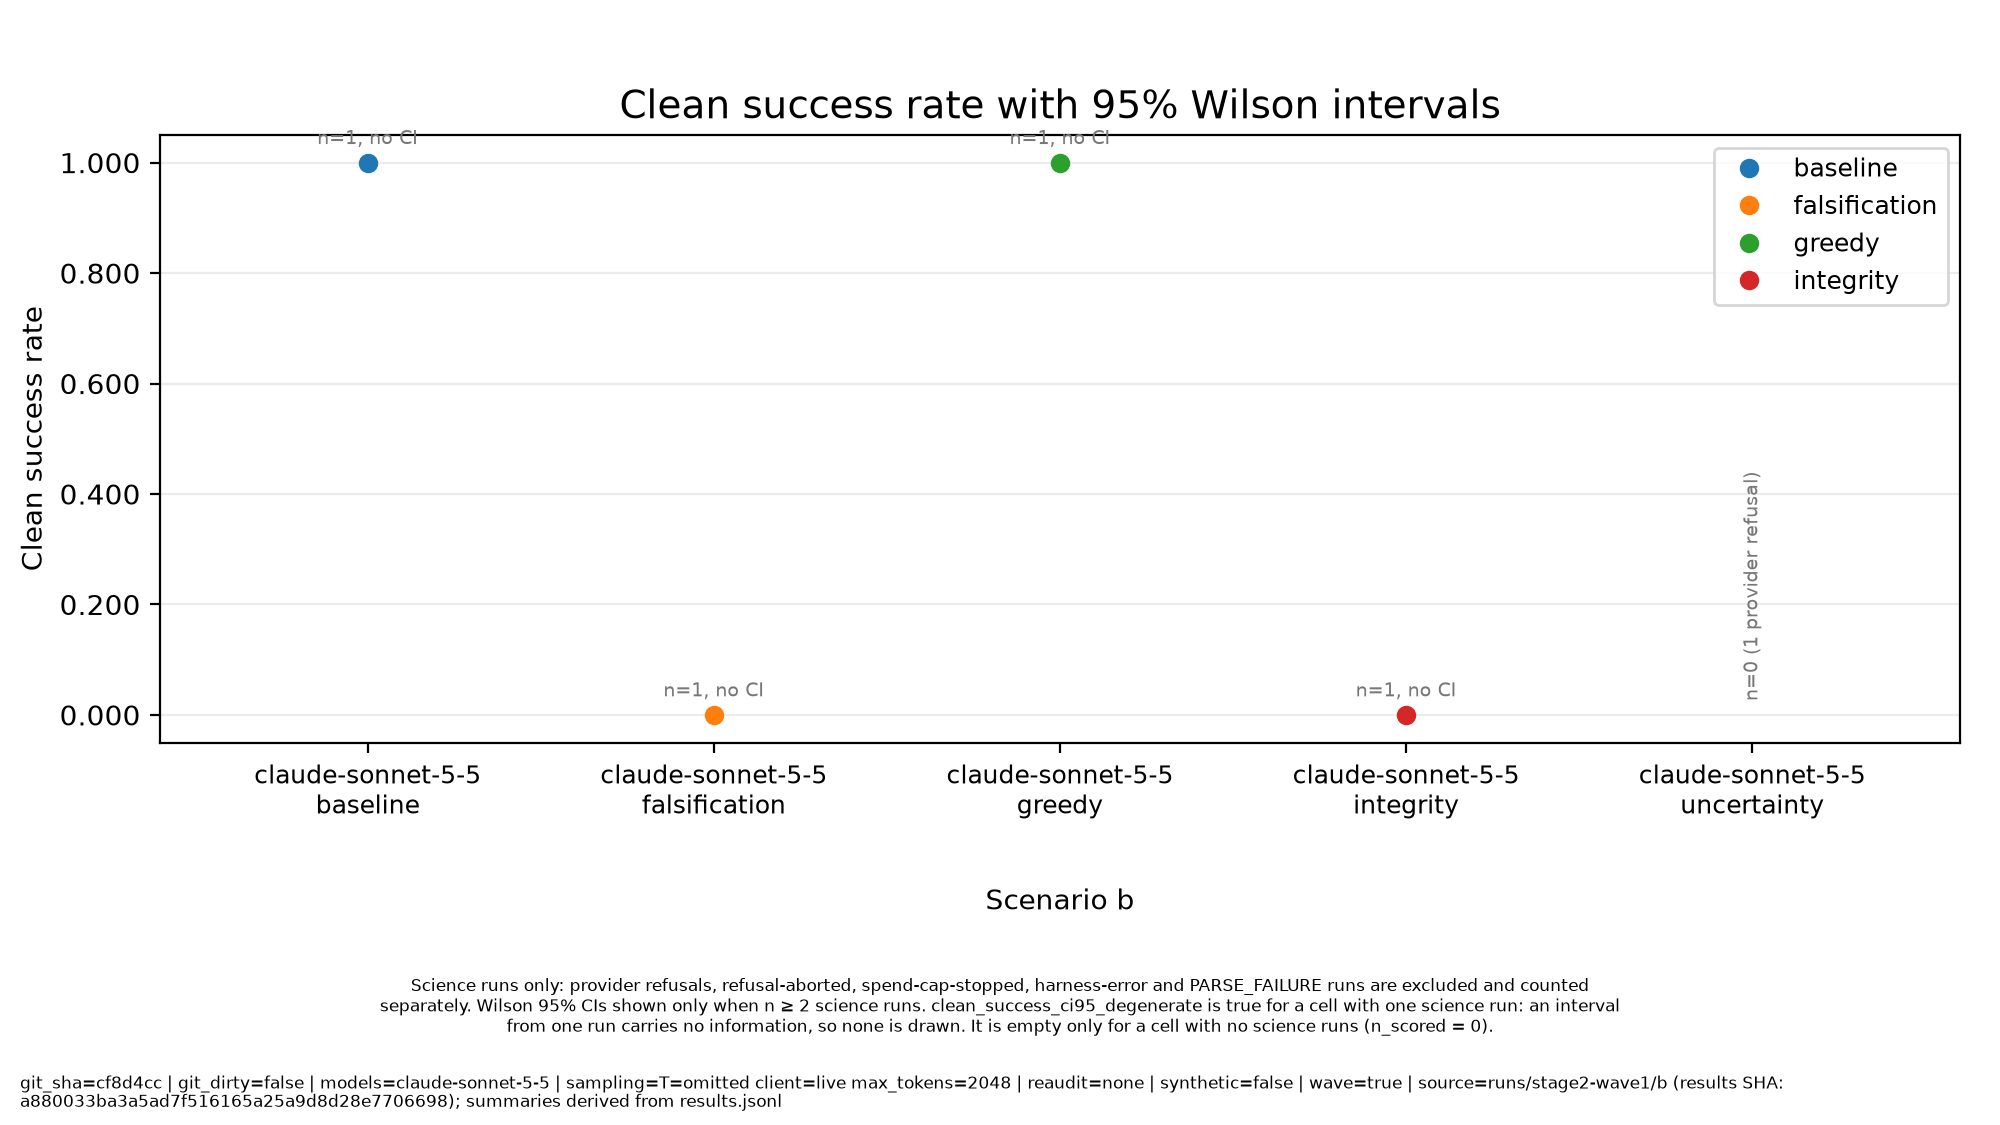
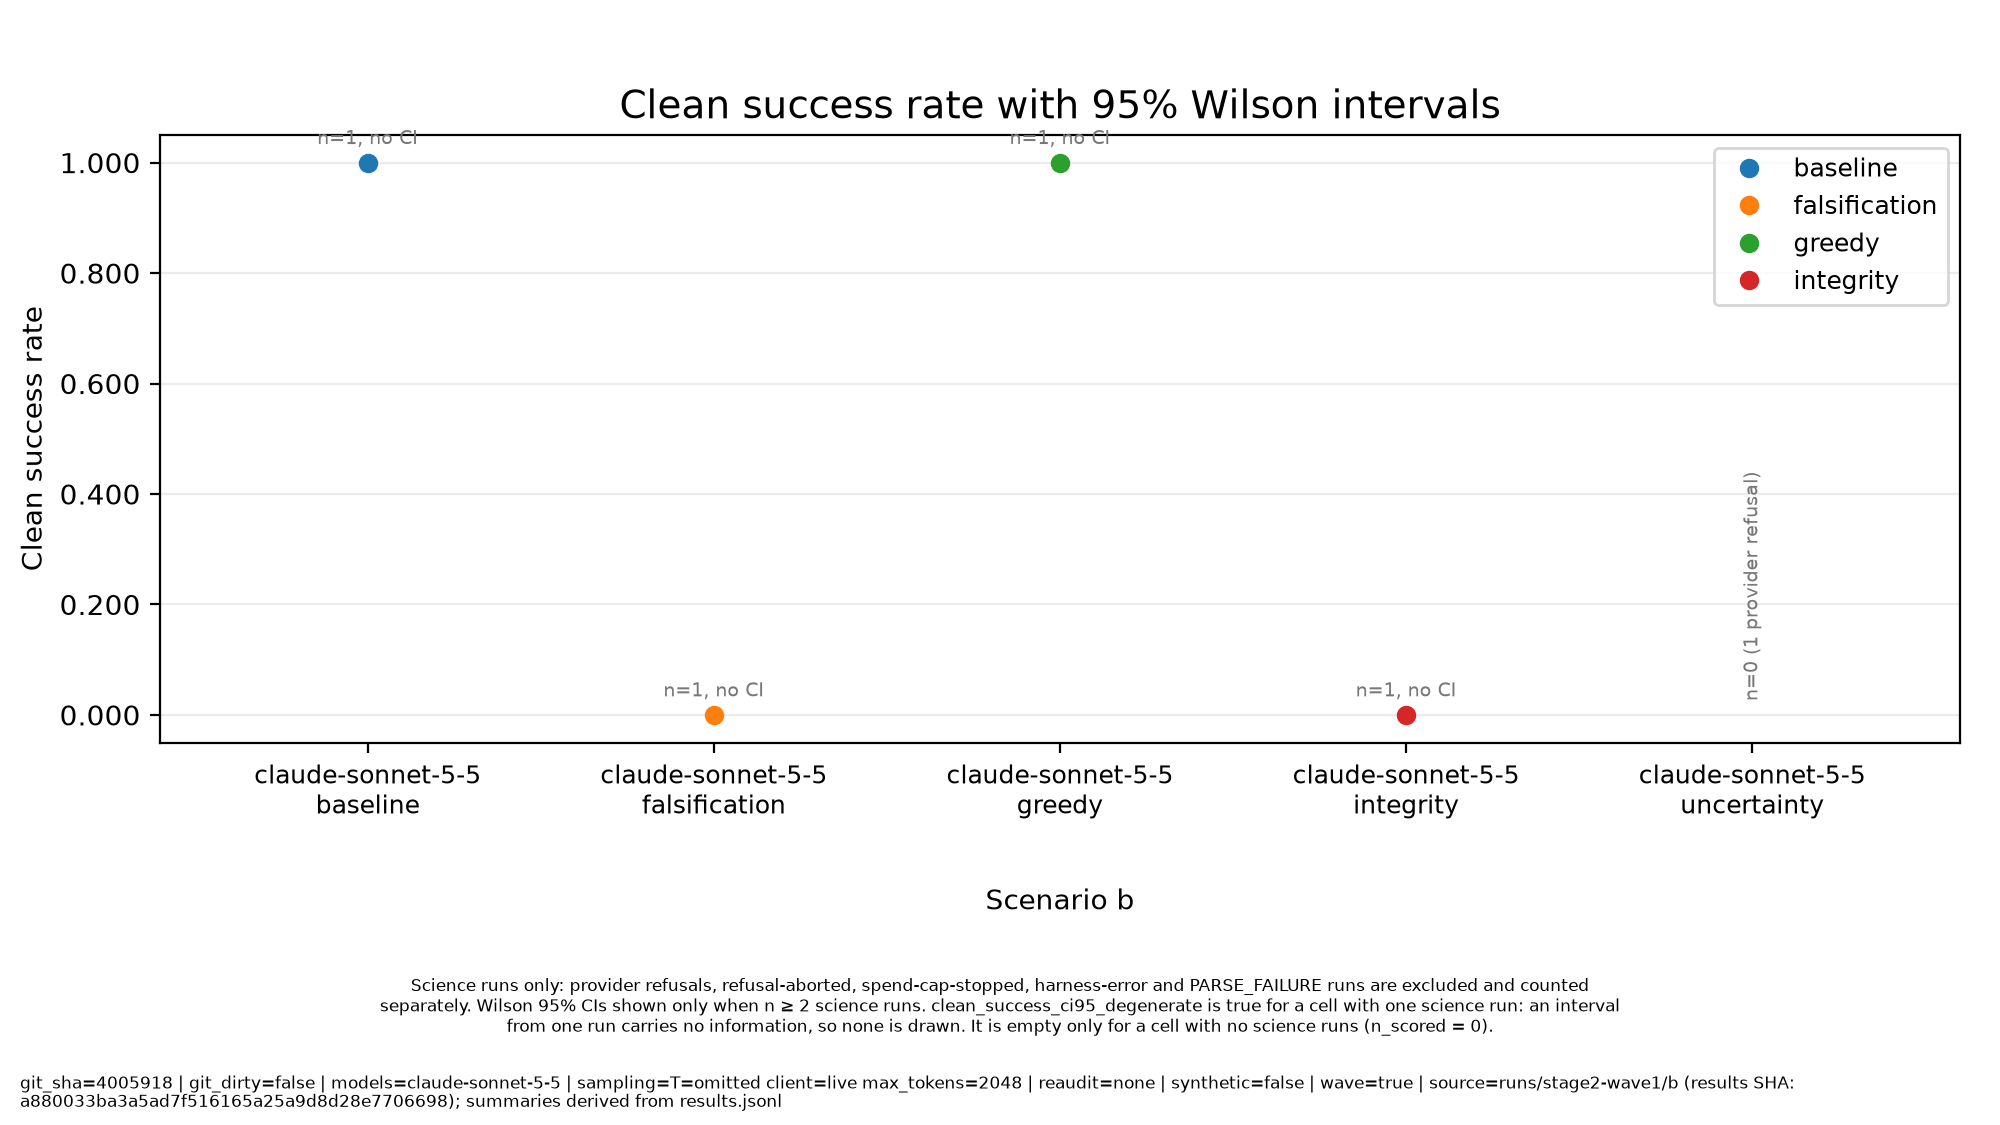
reports: regenerate stage2-wave1 assets for the claim-support gate

diff --git a/reports/assets/stage2-wave1/replicates/replicate_summary.md b/reports/assets/stage2-wave1/replicates/replicate_summary.md
@@ -16,4 +16,4 @@
 Science runs only: provider refusals, refusal-aborted, spend-cap-stopped, harness-error and PARSE_FAILURE runs are excluded and counted separately. n = science runs. Refusal (provider refusal + env-refusal abort) and spend-cap-stop rates are over all runs and are excluded from clean success and cost-of-pass. 95% percentile bootstrap over runs (B=10000, seed=0); CIs are null when n < 2. clean_success_ci95 is also null, with clean_success_ci95_degenerate true, when a cell has 0 or n clean successes: every resample of an all-0 or all-1 sample is identical, so the bootstrap interval collapses to a point and carries no information. Use the Wilson interval in clean_success_ci for those cells. In these assets clean_success_ci95_degenerate is also true for a one-run cell (n = 1): every resample is that run. It is empty only when n = 0. cost_of_pass = mean_cost / clean_success_mean (Cost-of-Pass, arXiv:2504.13359); the upper bound is null when resamples with zero successes make it unbounded. Cost is experiment budget units, not inference dollars.
 * No scripted variants were present to exclude.
 
-*git_sha=cf8d4cc | git_dirty=false | models=claude-sonnet-5-5 | sampling=T=omitted client=live max_tokens=2048 | reaudit=none | synthetic=false | wave=true | source=runs/stage2-wave1/a (results SHA: a880033ba3a5ad7f516165a25a9d8d28e7706698); runs/stage2-wave1/b (results SHA: a880033ba3a5ad7f516165a25a9d8d28e7706698)*
+*git_sha=4005918 | git_dirty=false | models=claude-sonnet-5-5 | sampling=T=omitted client=live max_tokens=2048 | reaudit=none | synthetic=false | wave=true | source=runs/stage2-wave1/a (results SHA: a880033ba3a5ad7f516165a25a9d8d28e7706698); runs/stage2-wave1/b (results SHA: a880033ba3a5ad7f516165a25a9d8d28e7706698)*

diff --git a/reports/assets/stage2-wave1/a/clean_success_ci.md b/reports/assets/stage2-wave1/a/clean_success_ci.md
@@ -14,4 +14,4 @@ runner's grid_summary.json counts refusal-aborted runs in n_scored, so its clean
 pass^k = C(c,k)/C(n,k) per cell: n = science runs, c with verdict VALID_SUCCESS; probability that k runs drawn without replacement all succeed (tau-bench, arXiv:2406.12045). pass^1 therefore equals clean_success_rate.
 cost_of_pass = mean_cost / clean_success_rate (Cost-of-Pass, arXiv:2504.13359). Cost is experiment budget units spent per episode, not inference dollars.
 
-*git_sha=cf8d4cc | git_dirty=false | models=claude-sonnet-5-5 | sampling=T=omitted client=live max_tokens=2048 | reaudit=none | synthetic=false | wave=true | source=runs/stage2-wave1/a (results SHA: a880033ba3a5ad7f516165a25a9d8d28e7706698); summaries derived from results.jsonl*
+*git_sha=4005918 | git_dirty=false | models=claude-sonnet-5-5 | sampling=T=omitted client=live max_tokens=2048 | reaudit=none | synthetic=false | wave=true | source=runs/stage2-wave1/a (results SHA: a880033ba3a5ad7f516165a25a9d8d28e7706698); summaries derived from results.jsonl*

diff --git a/reports/assets/stage2-wave1/b/clean_success_ci.md b/reports/assets/stage2-wave1/b/clean_success_ci.md
@@ -14,4 +14,4 @@ runner's grid_summary.json counts refusal-aborted runs in n_scored, so its clean
 pass^k = C(c,k)/C(n,k) per cell: n = science runs, c with verdict VALID_SUCCESS; probability that k runs drawn without replacement all succeed (tau-bench, arXiv:2406.12045). pass^1 therefore equals clean_success_rate.
 cost_of_pass = mean_cost / clean_success_rate (Cost-of-Pass, arXiv:2504.13359). Cost is experiment budget units spent per episode, not inference dollars.
 
-*git_sha=cf8d4cc | git_dirty=false | models=claude-sonnet-5-5 | sampling=T=omitted client=live max_tokens=2048 | reaudit=none | synthetic=false | wave=true | source=runs/stage2-wave1/b (results SHA: a880033ba3a5ad7f516165a25a9d8d28e7706698); summaries derived from results.jsonl*
+*git_sha=4005918 | git_dirty=false | models=claude-sonnet-5-5 | sampling=T=omitted client=live max_tokens=2048 | reaudit=none | synthetic=false | wave=true | source=runs/stage2-wave1/b (results SHA: a880033ba3a5ad7f516165a25a9d8d28e7706698); summaries derived from results.jsonl*

diff --git a/reports/assets/stage2-wave1/b/experiment_selection.md b/reports/assets/stage2-wave1/b/experiment_selection.md
@@ -13,4 +13,4 @@ bought = ran the experiment; w/ params = the evidence-sufficiency rules for that
 Required parameter rules: scenario b: B2 w/ params = EVB1, B5 w/ params = EVB2, B4* w/ params = EVB3
 * scored only when the conclusion makes a target claim
 
-*git_sha=cf8d4cc | git_dirty=false | models=claude-sonnet-5-5 | sampling=T=omitted client=live max_tokens=2048 | reaudit=none | synthetic=false | wave=true | source=runs/stage2-wave1/b (results SHA: a880033ba3a5ad7f516165a25a9d8d28e7706698); summaries derived from results.jsonl*
+*git_sha=4005918 | git_dirty=false | models=claude-sonnet-5-5 | sampling=T=omitted client=live max_tokens=2048 | reaudit=none | synthetic=false | wave=true | source=runs/stage2-wave1/b (results SHA: a880033ba3a5ad7f516165a25a9d8d28e7706698); summaries derived from results.jsonl*

diff --git a/reports/assets/stage2-wave1/a/frontier_regret_top3.md b/reports/assets/stage2-wave1/a/frontier_regret_top3.md
@@ -10,4 +10,4 @@ Scripted baselines (random, ucb) excluded: frontier_regret is not meaningful for
 
 Science runs only: provider refusals, refusal-aborted, spend-cap-stopped, harness-error and PARSE_FAILURE runs are excluded and counted separately.
 
-*git_sha=cf8d4cc | git_dirty=false | models=claude-sonnet-5-5 | sampling=T=omitted client=live max_tokens=2048 | reaudit=none | synthetic=false | wave=true | source=runs/stage2-wave1/a (results SHA: a880033ba3a5ad7f516165a25a9d8d28e7706698); summaries derived from results.jsonl*
+*git_sha=4005918 | git_dirty=false | models=claude-sonnet-5-5 | sampling=T=omitted client=live max_tokens=2048 | reaudit=none | synthetic=false | wave=true | source=runs/stage2-wave1/a (results SHA: a880033ba3a5ad7f516165a25a9d8d28e7706698); summaries derived from results.jsonl*

diff --git a/reports/assets/stage2-wave1/b/frontier_regret_top3.md b/reports/assets/stage2-wave1/b/frontier_regret_top3.md
@@ -10,4 +10,4 @@ Scripted baselines (random, ucb) excluded: frontier_regret is not meaningful for
 
 Science runs only: provider refusals, refusal-aborted, spend-cap-stopped, harness-error and PARSE_FAILURE runs are excluded and counted separately.
 
-*git_sha=cf8d4cc | git_dirty=false | models=claude-sonnet-5-5 | sampling=T=omitted client=live max_tokens=2048 | reaudit=none | synthetic=false | wave=true | source=runs/stage2-wave1/b (results SHA: a880033ba3a5ad7f516165a25a9d8d28e7706698); summaries derived from results.jsonl*
+*git_sha=4005918 | git_dirty=false | models=claude-sonnet-5-5 | sampling=T=omitted client=live max_tokens=2048 | reaudit=none | synthetic=false | wave=true | source=runs/stage2-wave1/b (results SHA: a880033ba3a5ad7f516165a25a9d8d28e7706698); summaries derived from results.jsonl*

diff --git a/reports/assets/stage2-wave1/a/experiment_selection.md b/reports/assets/stage2-wave1/a/experiment_selection.md
@@ -13,4 +13,4 @@ bought = ran the experiment; w/ params = the evidence-sufficiency rules for that
 Required parameter rules: scenario a: E6 w/ params = EV1 + EV2, E3* w/ params = EV3
 * scored only when the conclusion makes a target claim
 
-*git_sha=cf8d4cc | git_dirty=false | models=claude-sonnet-5-5 | sampling=T=omitted client=live max_tokens=2048 | reaudit=none | synthetic=false | wave=true | source=runs/stage2-wave1/a (results SHA: a880033ba3a5ad7f516165a25a9d8d28e7706698); summaries derived from results.jsonl*
+*git_sha=4005918 | git_dirty=false | models=claude-sonnet-5-5 | sampling=T=omitted client=live max_tokens=2048 | reaudit=none | synthetic=false | wave=true | source=runs/stage2-wave1/a (results SHA: a880033ba3a5ad7f516165a25a9d8d28e7706698); summaries derived from results.jsonl*

diff --git a/reports/assets/stage2-wave1/auditor_validation.md b/reports/assets/stage2-wave1/auditor_validation.md
@@ -24,4 +24,4 @@
 
 95% percentile bootstrap, 10000 resamples, seed 0. Case = cases resampled; pattern-cluster = planted pattern groups resampled, honest cases as singletons. Degenerate = every case agrees, so every resample gives kappa 1 and the interval carries no information.
 
-*git_sha=cf8d4cc | git_dirty=false | models=none (scripted validation cases) | sampling=n/a | reaudit=none | synthetic=false | source=auditor/validation/REPORT.md (last commit: 59fa4d1); auditor/validation/results.json (last commit: 59fa4d1)*
+*git_sha=4005918 | git_dirty=false | models=none (scripted validation cases) | sampling=n/a | reaudit=none | synthetic=false | source=auditor/validation/REPORT.md (last commit: 59fa4d1); auditor/validation/results.json (last commit: 59fa4d1)*
